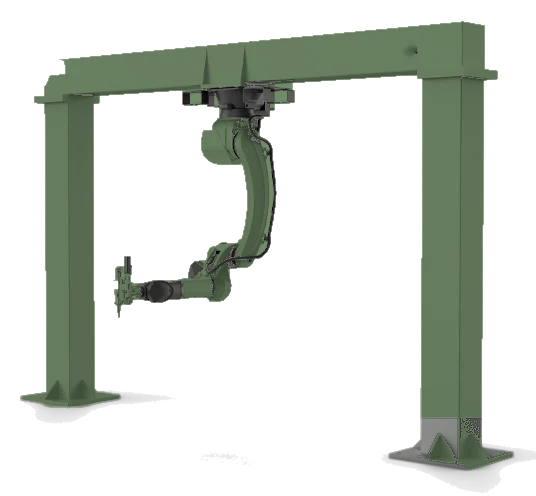
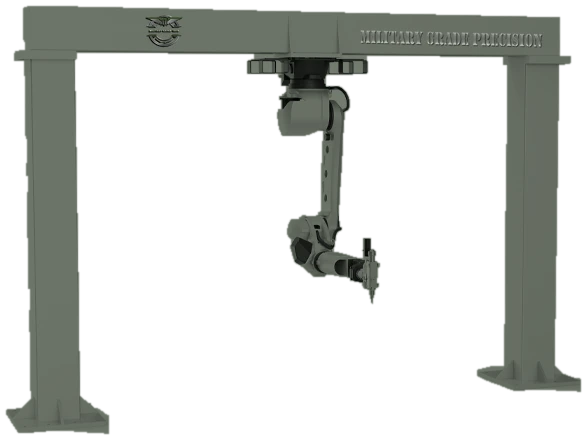
Robot 3 cadre noi (portal grafit, sigla vultur), fara dbE la abkant

diff --git a/configurator.js b/configurator.js
@@ -16,7 +16,7 @@ var WA = "40730466920", MAIL = "contact@militarylasertech.com";
 
 /* ================= DATE ================= */
 var FRAMES = {sheet_open:7, sheet_enclosed:6, sheet_exchange_open:6, sheet_exchange_enclosed:6, platetube:6, platetube_exchange:6,
-  tube_2:5, tube_3:5, hbeam:7, cabinet:5, brake:7, robot:2, gen_ind:6, gen_mob:2, gen_home:5, forklift:6, forklift_d:1, forklift_gpl:1, forklift_e3:1, forklift_e4:1, forklift_hd:1, forklift_hdx:2, forklift_st:1, solar:1, ups:1, start:1};
+  tube_2:5, tube_3:5, hbeam:7, cabinet:5, brake:7, robot:3, gen_ind:6, gen_mob:2, gen_home:5, forklift:6, forklift_d:1, forklift_gpl:1, forklift_e3:1, forklift_e4:1, forklift_hd:1, forklift_hdx:2, forklift_st:1, solar:1, ups:1, start:1};
 var MESE = ["3000 x 1500 mm","4000 x 2000 mm","6000 x 2000 mm","6000 x 2500 mm"];
 var COD = {"3000 x 1500 mm":"31.5","4000 x 2000 mm":"42","6000 x 2000 mm":"62","6000 x 2500 mm":"62.5"};
 var MAT = ["Oțel carbon","Inox","Aluminiu","Alamă / cupru"];
@@ -160,7 +160,7 @@ var T = [
    step("gros","Grosimea maximă a tablei",{o:["până la 3 mm","3 - 6 mm","6 - 10 mm","peste 10 mm"]}),
    step("opt","Opțiuni",{multi:1, o:["Set matrițe și poansoane suplimentare","Brațe suport față","Protecție laser la poanson",
     "Stabilizator de tensiune + protecție la suprasarcină","Instalare + training la sediu"]})],
-  model:function (A) { return "bendIT dbE it " + (!A.lung ? "…" : /^Altă/.test(A.lung) ? "(la cerere)" : A.lung.replace(/ m \/ /, "-").replace(" t", "")); },
+  model:function (A) { return "bendIT " + (!A.lung ? "…" : /^Altă/.test(A.lung) ? "(la cerere)" : A.lung.replace(/ m \/ /, "-").replace(" t", "")); },
   link:function () { return "abkant-393"; }},
  {id:"hbeam", n:"Debitare heavy / H-beam 3D", d:"Grinzi H, profile mari, 7 axe. La cerere", g:"hbeam",
   variants:[v("h7","3D 7 axe","Teșire și tăiere 3D pe grinzi H, U, I","hbeam",{specs:{"Viteză tăiere":"80 m/min","Precizie poziționare":"±0.15 mm","Grosime":"0–50 mm"}})],
